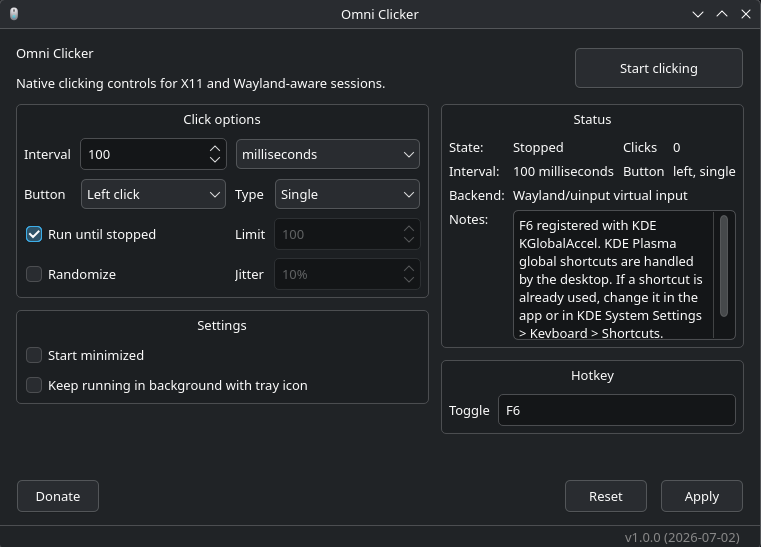
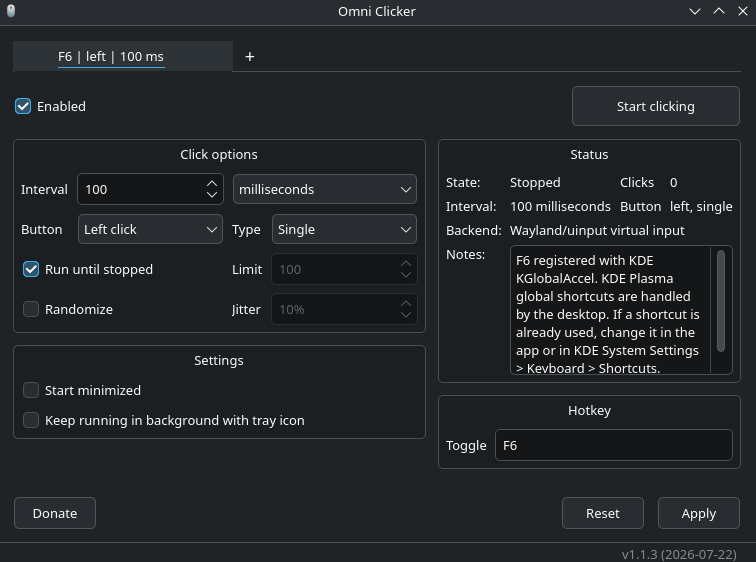
Updated app screenshot and readme for v1.1.3

diff --git a/README.md b/README.md
@@ -26,6 +26,7 @@ The goal is simple: install it, choose your settings, and start clicking.
 * Left, right and scroll wheel mouse click support + custom keys 
 * Global shortcut/hotkey support
 * Run in background support
+* Multiple clicking profiles
 * Clean and simple Qt6 interface
 * No Electron or web technologies
 
@@ -88,18 +89,6 @@ cmake --build build
 ```bash
 cmake --install build
 ```
-
-## Supported Desktop Environments
-
-| Environment        | Support |
-| ------------------ | ------- |
-| X11                | yes     |
-| KDE Plasma Wayland | yes     |
-| GNOME Wayland      | yes     |
-| Sway               | yes     |
-| Hyprland           | yes     |
-| Niri               | Planned |
-| COSMIC             | Planned |
 
 ## Contributing
 